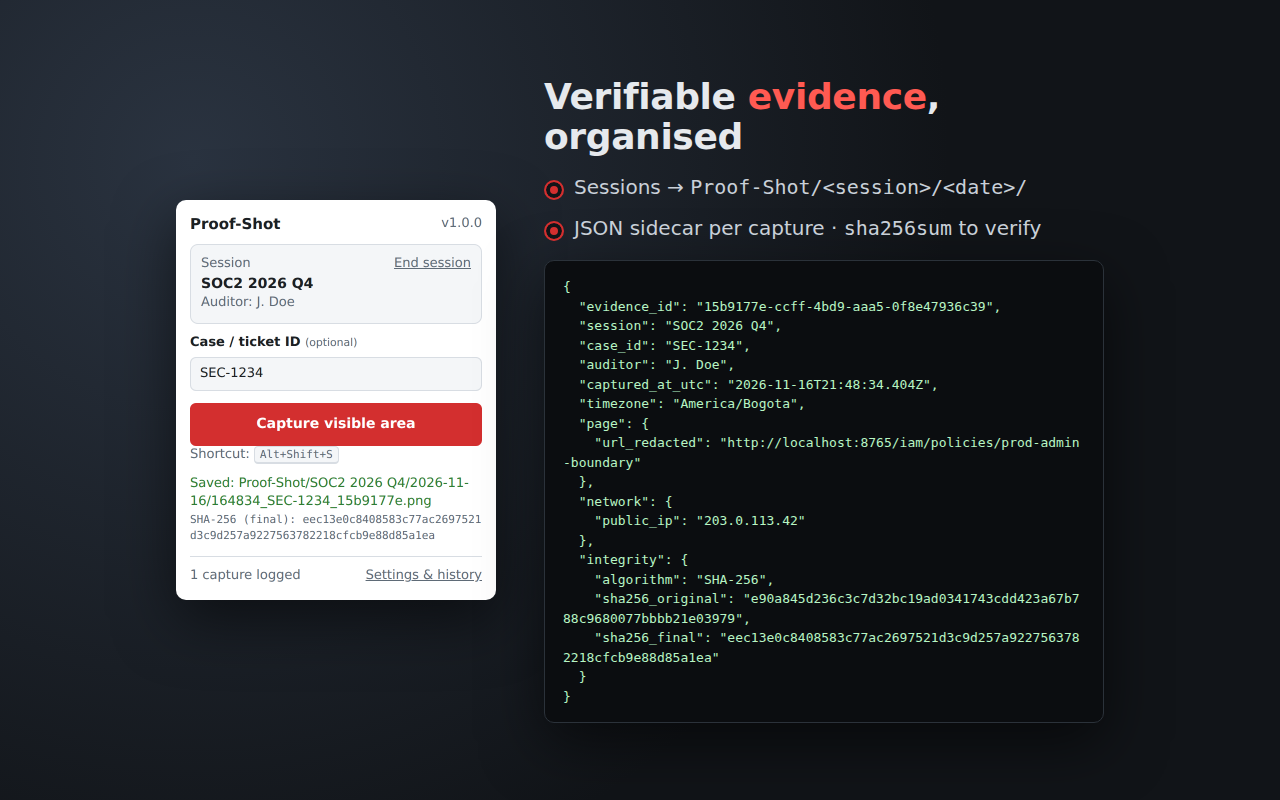
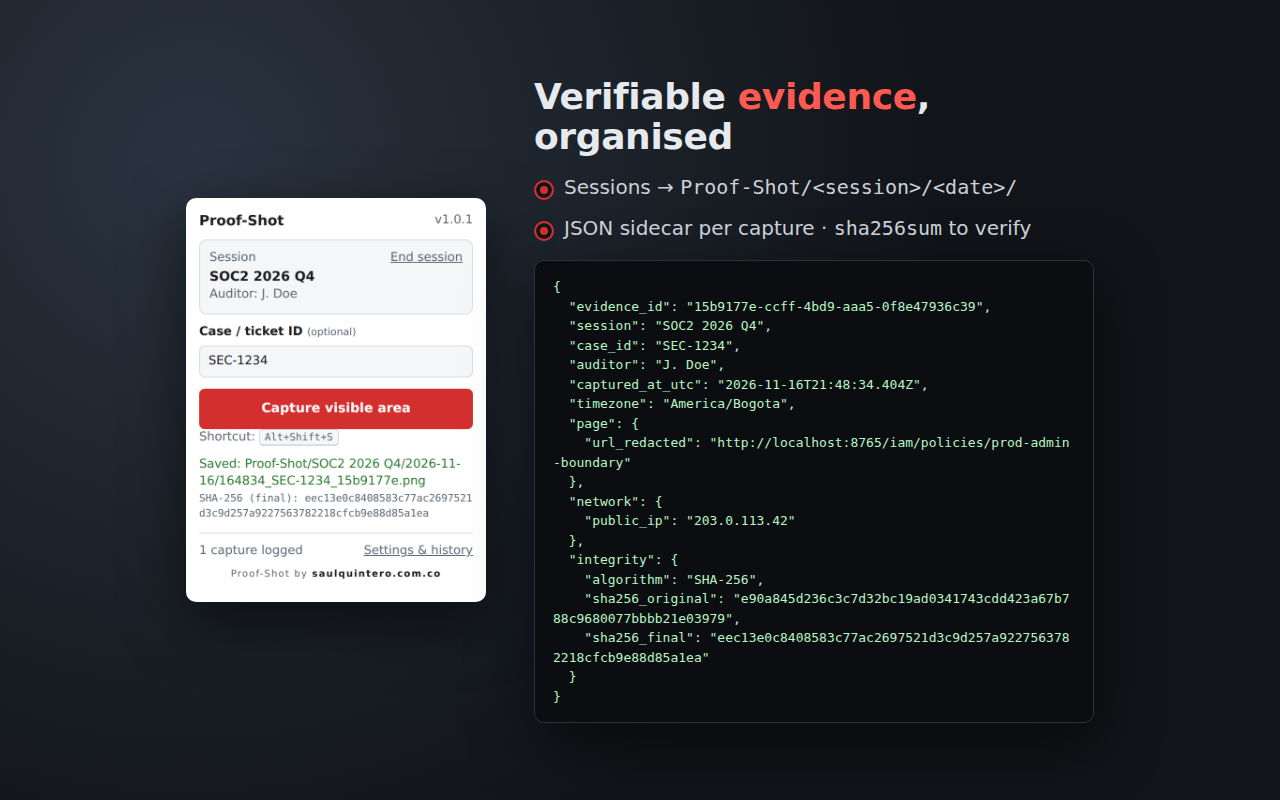
v1.0.1: author website credit (#3)

Changed region(s): [[0.125, 0.2188, 0.8125, 0.75], [0.4062, 0.375, 0.8438, 0.8438], [0.4062, 0.0938, 0.75, 0.1875]]

diff --git a/popup.html b/popup.html
@@ -13,6 +13,9 @@
     .capture-btn { width: 100%; margin-top: 12px; padding: 10px; font-size: 14px; }
     footer { display: flex; justify-content: space-between; margin-top: 12px; padding-top: 10px; border-top: 1px solid var(--border); }
     body { overflow-x: hidden; }
+    .credit { margin-top: 8px; text-align: center; font-size: 10px; letter-spacing: .12em; color: var(--muted); }
+    .credit a { color: var(--text); font-weight: 700; text-decoration: none; }
+    .credit a:hover { color: var(--accent); }
     #lastHash { font-size: 11px; word-break: break-all; font-family: ui-monospace, Consolas, monospace; }
   </style>
 </head>
@@ -60,6 +63,7 @@
     <span class="muted" id="historyCount"></span>
     <button type="button" class="link" id="openOptions">Settings &amp; history</button>
   </footer>
+  <div class="credit">Proof-Shot by <a href="https://saulquintero.com.co/utilities/" target="_blank" rel="noopener noreferrer">saulquintero.com.co</a></div>
 
   <script type="module" src="popup.js"></script>
 </body>

diff --git a/options.html b/options.html
@@ -16,6 +16,9 @@
     th, td { text-align: left; padding: 6px 8px; border-bottom: 1px solid var(--border); white-space: nowrap; }
     td.url { max-width: 280px; overflow: hidden; text-overflow: ellipsis; }
     th { color: var(--muted); font-weight: 600; }
+    .credit { text-align: center; font-size: 12px; letter-spacing: .08em; color: var(--muted); }
+    .credit a { color: var(--text); font-weight: 700; text-decoration: none; }
+    .credit a:hover { color: var(--accent); }
   </style>
 </head>
 <body>
@@ -65,6 +68,8 @@
       </table>
     </div>
   </section>
+
+  <p class="credit">Proof-Shot by <a href="https://saulquintero.com.co/utilities/" target="_blank" rel="noopener noreferrer">saulquintero.com.co</a></p>
 
   <script type="module" src="options.js"></script>
 </body>

diff --git a/store/src/screenshot-2.html b/store/src/screenshot-2.html
@@ -1,6 +1,6 @@
 <!doctype html><html><head><meta charset="utf-8"><link rel="stylesheet" href="base.css">
 <style>body{width:1280px;height:800px;display:flex;align-items:center;justify-content:center;gap:48px;padding:0 48px}
-.popup{width:320px}.col{width:560px}
+.popup{width:300px}.col{width:560px}
 pre{margin:18px 0 0;background:#0b0d10;border:1px solid #2b323a;border-radius:10px;padding:16px 18px;font:13px/1.5 ui-monospace,Consolas,monospace;color:#b8f5c4;white-space:pre-wrap;word-break:break-all;box-shadow:0 20px 60px rgba(0,0,0,.55)}
 h1{font-size:36px}</style></head>
 <body>

diff --git a/store/STORE_LISTING.md b/store/STORE_LISTING.md
@@ -5,14 +5,14 @@ Copy/paste reference for the Developer Dashboard (<https://chrome.google.com/web
 ## Package
 
 ```bash
-./pack.sh   # -> proof-shot-v1.0.0.zip
+./pack.sh   # -> proof-shot-v<version>.zip (or download it from the GitHub release)
 ```
 
 ## Store listing tab
 
 **Name:** Proof-Shot
 
-**Summary** (max 132 chars):
+**Summary** (max 132 chars, taken from `description` in `manifest.json`; keep both identical):
 > Audit-grade screenshots with a watermark (timestamp, public IP, URL, SHA-256) and a JSON evidence file for verification.
 
 **Category:** Tools
@@ -48,7 +48,8 @@ PRIVATE BY DESIGN
 • The only network request is to api.ipify.org to read your public IP at capture time.
 • Minimal permissions: only the tab you click on is captured (activeTab).
 
-Open source: https://github.com/saqpsaqp/chrome-screenshot-for-audit
+Open source (MIT): https://github.com/saqpsaqp/chrome-screenshot-for-audit
+Made by Saul Quintero: https://saulquintero.com.co/utilities/
 ```
 
 **Graphic assets** (in `store/`, regenerate with `store/build.sh`):
@@ -60,7 +61,7 @@ Open source: https://github.com/saqpsaqp/chrome-screenshot-for-audit
 | Screenshot 2 (1280×800) | `store/screenshot-2.png` |
 | Small promo tile 440×280 | `store/promo-small-440x280.png` |
 
-**Homepage URL:** https://github.com/saqpsaqp/chrome-screenshot-for-audit
+**Homepage URL:** https://saulquintero.com.co/utilities/ (same as `homepage_url` in the manifest)
 **Support URL:** https://github.com/saqpsaqp/chrome-screenshot-for-audit/issues
 
 ## Privacy practices tab

diff --git a/README.md b/README.md
@@ -83,3 +83,7 @@ Full policy: [PRIVACY.md](PRIVACY.md). Security model and vulnerability reportin
 ## License
 
 [MIT](LICENSE) © 2026 Saul Quintero
+
+---
+
+Made by [Saul Quintero](https://saulquintero.com.co/utilities/)
